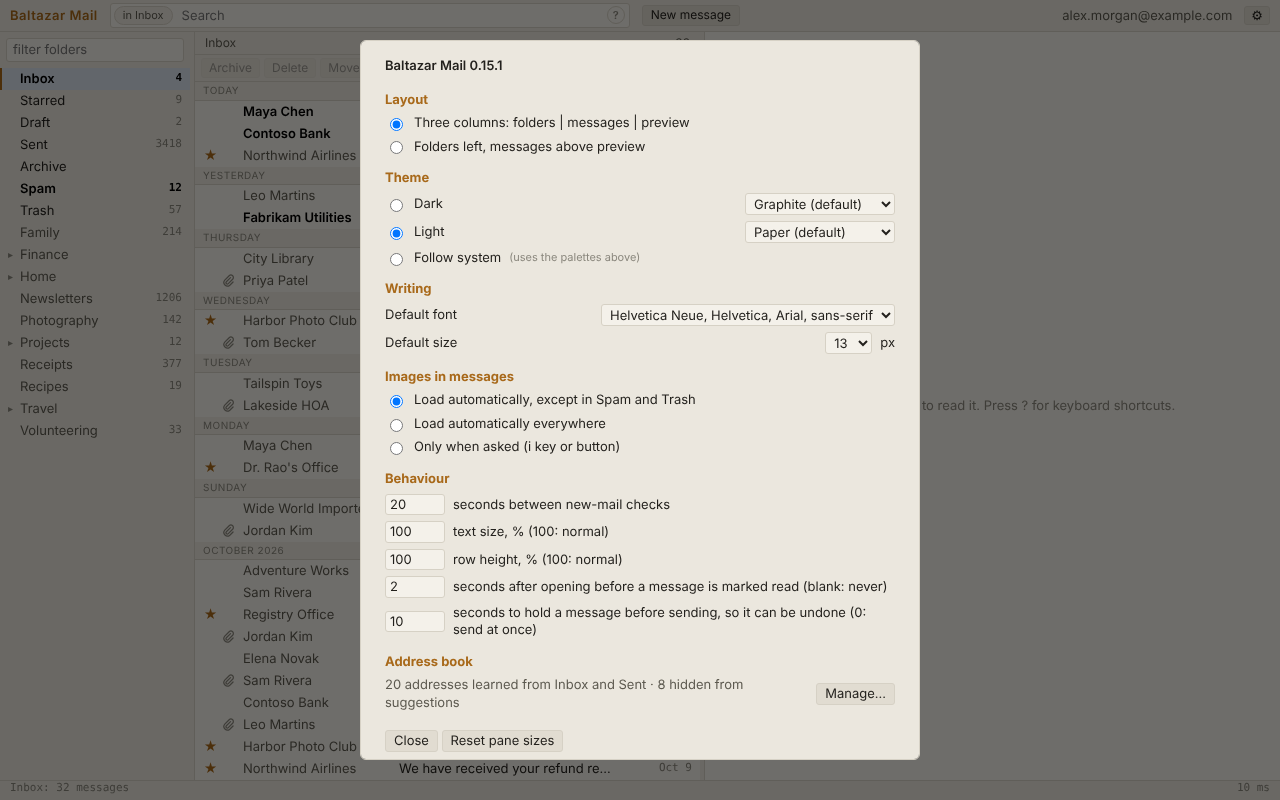
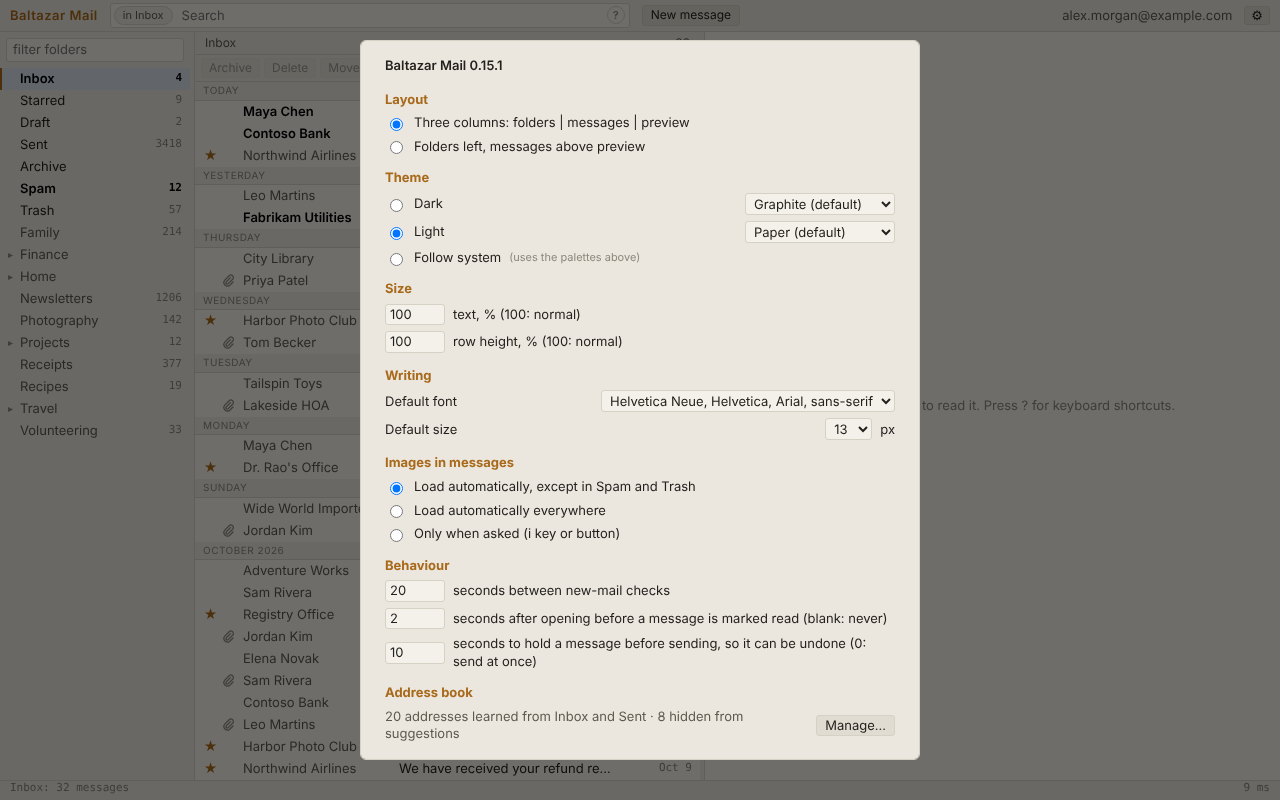
Group text size and row height under a Size heading below Theme
They shape how the app looks, not how it behaves.

Changed region(s): [[0.2812, 0.3438, 0.6875, 0.9375], [0.625, 0.8438, 0.6875, 0.9375]]

diff --git a/ext/mail.html b/ext/mail.html
@@ -137,6 +137,9 @@
     <div class="theme-row"><label><input type="radio" name="theme" value="dark"> Dark</label><select id="darkTheme" title="Palette used in dark mode" aria-label="Dark palette"></select></div>
     <div class="theme-row"><label><input type="radio" name="theme" value="light"> Light</label><select id="lightTheme" title="Palette used in light mode" aria-label="Light palette"></select></div>
     <label><input type="radio" name="theme" value="system"> Follow system <span class="theme-note">(uses the palettes above)</span></label>
+    <b>Size</b>
+    <label><input type="number" id="textpct" min="85" max="150" step="5" style="width:60px"> text, % (100: normal)</label>
+    <label><input type="number" id="density" min="80" max="150" step="5" style="width:60px"> row height, % (100: normal)</label>
     <b>Writing</b>
     <label>Default font <select id="composeFont">
       <option>Helvetica Neue, Helvetica, Arial, sans-serif</option><option>Arial</option><option>Segoe UI</option><option>Verdana</option><option>Tahoma</option><option>Trebuchet MS</option>
@@ -149,8 +152,6 @@
     <label><input type="radio" name="images" value="never"> Only when asked (i key or button)</label>
     <b>Behaviour</b>
     <label><input type="number" id="poll" min="5" max="600" step="5" style="width:60px"> seconds between new-mail checks</label>
-    <label><input type="number" id="textpct" min="85" max="150" step="5" style="width:60px"> text size, % (100: normal)</label>
-    <label><input type="number" id="density" min="80" max="150" step="5" style="width:60px"> row height, % (100: normal)</label>
     <label><input type="number" id="markread" min="0" max="60" step="1" style="width:60px"> seconds after opening before a message is marked read (blank: never)</label>
     <label><input type="number" id="undosend" min="0" max="60" step="1" style="width:60px"> seconds to hold a message before sending, so it can be undone (0: send at once)</label>
     <b>Address book</b>
